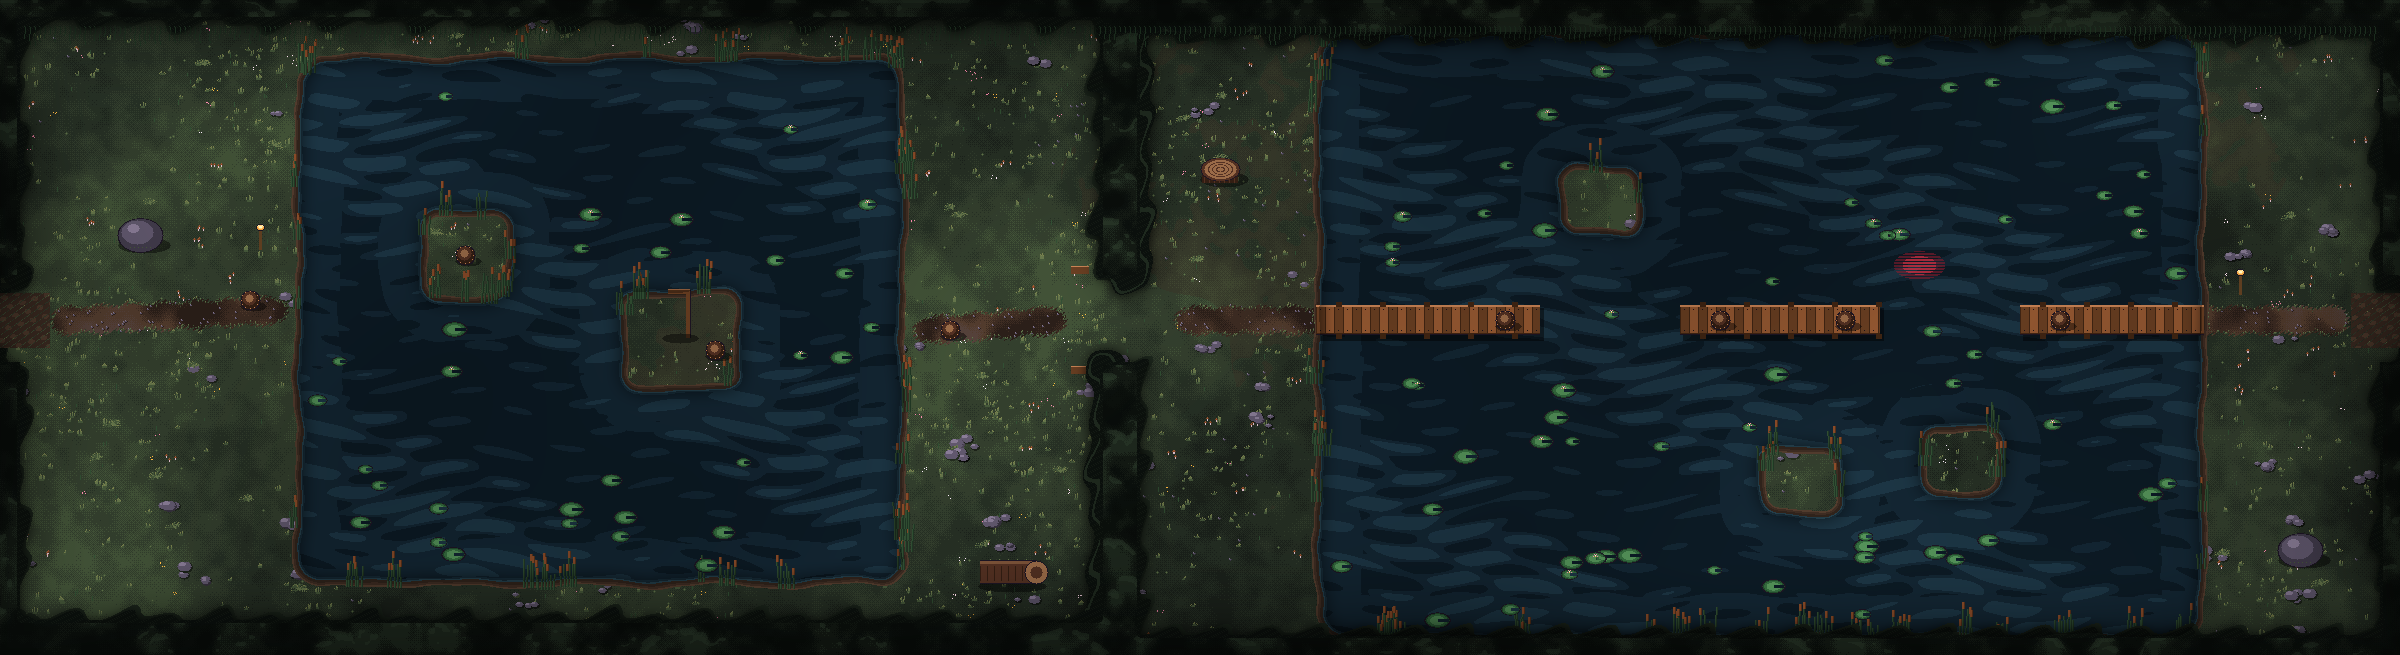
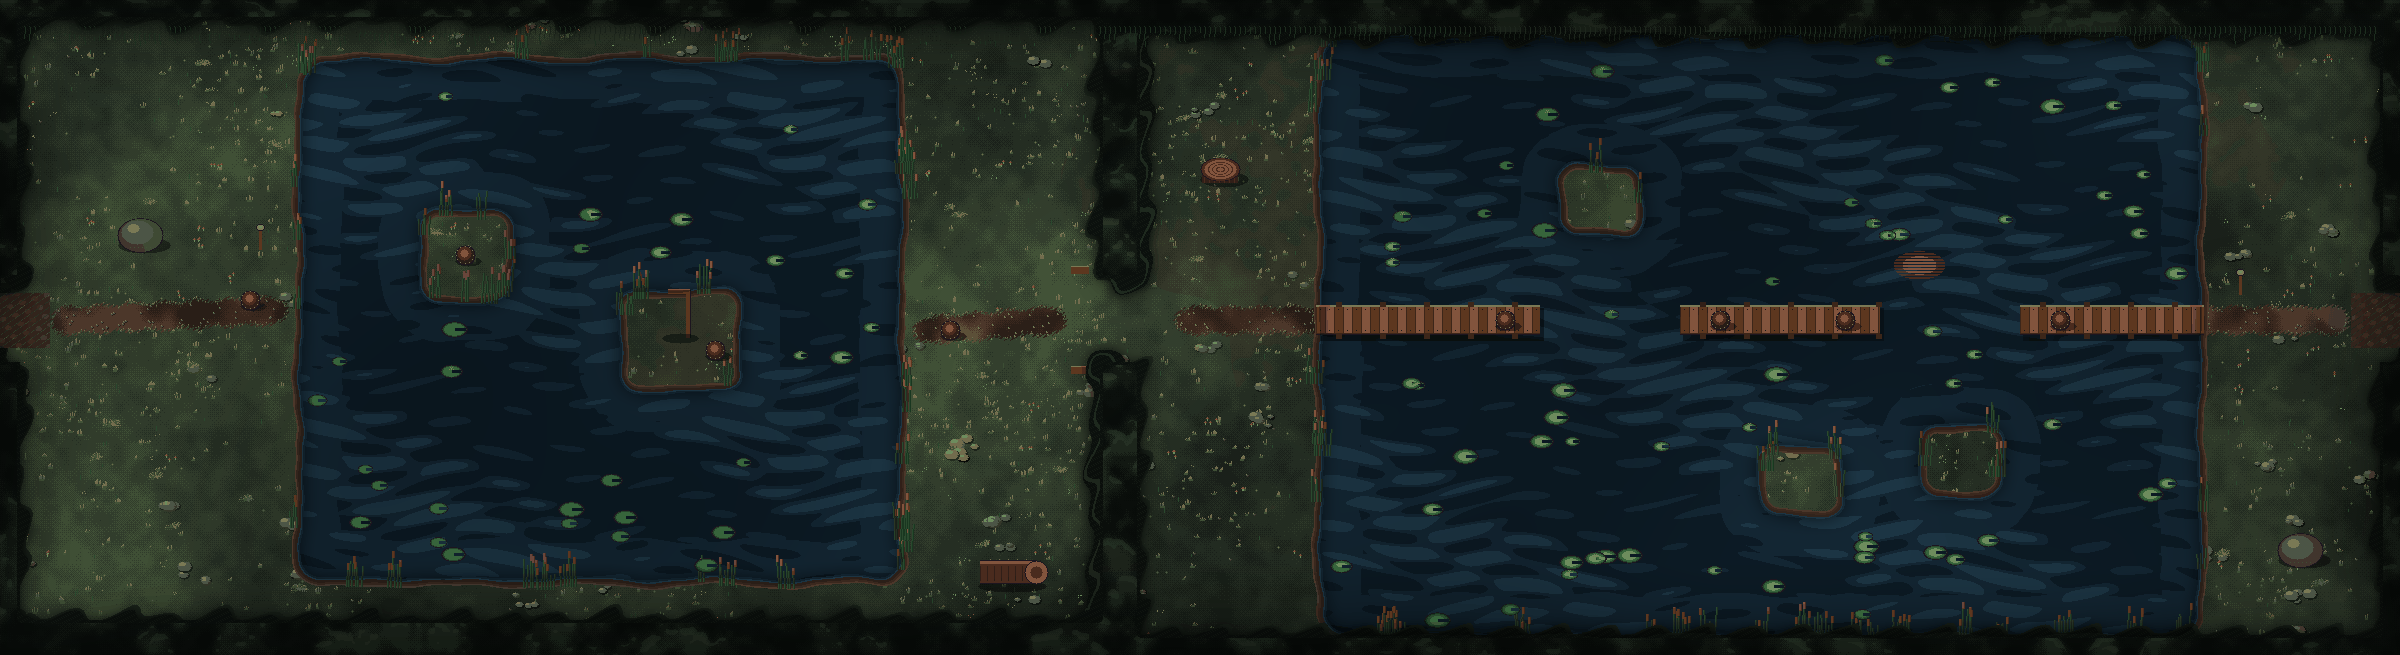
Rooms ship as 256-colour PNGs: the single-file build drops from 17 MB to 7 MB; jump menu knows Driftwood; gulls take turns
Claude-Session: https://claude.ai/code/session_01RHVZyy8vCMEMq4kRSxG4Ay

diff --git a/art/rooms/marsh.py b/art/rooms/marsh.py
@@ -526,6 +526,11 @@ def render(R):
     return Image.fromarray(np.clip(img, 0, 255).astype(np.uint8))
 
 
+def save_room(im, path):
+    """Rooms ship inside a single-file build: a 256-colour palette (no dither) keeps them small."""
+    im.convert('RGB').quantize(colors=256, method=Image.Quantize.MEDIANCUT, dither=Image.Dither.NONE).save(path, optimize=True)
+
+
 def main(ids):
     os.makedirs(OUT, exist_ok=True)
     files = [os.path.join(ROOT, 'src', 'data', 'rooms', f'{i}.json') for i in ids] if ids else \
@@ -533,7 +538,7 @@ def main(ids):
                + glob.glob(os.path.join(ROOT, 'src', 'data', 'rooms', 'driftwood-*.json')))
     for f in files:
         R = json.load(open(f))
-        render(R).save(os.path.join(OUT, f"{R['id']}.png"))
+        save_room(render(R), os.path.join(OUT, f"{R['id']}.png"))
         print('ok', R['id'], R['width'], R['height'])
 
 

diff --git a/art/rooms/willowmere.py b/art/rooms/willowmere.py
@@ -254,5 +254,5 @@ for j, row in enumerate(lantern):
 
 out = os.path.join(ROOT, 'src', 'assets', 'rooms')
 os.makedirs(out, exist_ok=True)
-Image.fromarray(np.clip(img, 0, 255).astype(np.uint8)).save(os.path.join(out, 'willowmere.png'))
+Image.fromarray(np.clip(img, 0, 255).astype(np.uint8)).quantize(colors=256, method=Image.Quantize.MEDIANCUT, dither=Image.Dither.NONE).save(os.path.join(out, 'willowmere.png'), optimize=True)
 print('ok', W, H)
